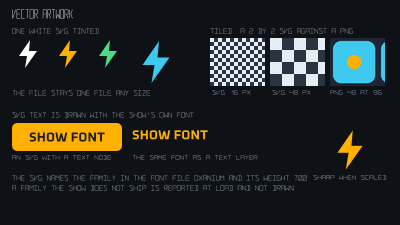
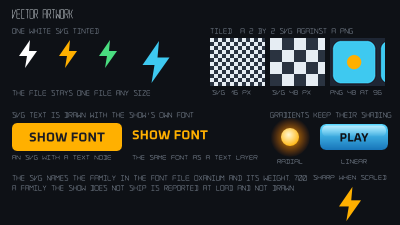
feat(vector_artwork): add gradient artwork, and mention --fps for chip_shop (#121)
The example shows SVG gradients beside the other artwork: a sun whose
radial glow fades to transparent over the background, and a button
shaded top to bottom by a linear gradient with a translucent gloss.
The scaling bolt moves down to make room.

The README shows the player's --fps for a wall that runs all day:
cuelight-player chip_shop --fps 30.

Changed region(s): [[0.66, 0.4978, 0.99, 0.7467], [0.84, 0.84, 0.9, 0.9644]]

diff --git a/chip_shop/README.md b/chip_shop/README.md
@@ -29,7 +29,8 @@ cage -m extend -- cuelight-player chip_shop
 ```
 
 The player gets a 5760 x 1080 window and fits the show into it as it
-fits any window. Other wlroots compositors do the same with a rule that
+fits any window. For a wall that runs all day, `--fps` caps the frames
+drawn a second: `cuelight-player chip_shop --fps 30`. Other wlroots compositors do the same with a rule that
 places and sizes the window. A desktop compositor that will not let a
 window span outputs needs the second way, one window per screen, which
 the player does not have yet (cuelight#257, on the presented view of
